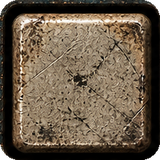
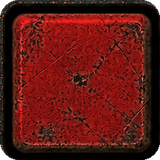
corrige rotacion botones

diff --git a/Source/ui/KnobLookAndFeel.cpp b/Source/ui/KnobLookAndFeel.cpp
@@ -5,38 +5,9 @@
 
 namespace
 {
-juce::Image createTrimmedKnobImage (const char* data, int dataSize)
+juce::Image createKnobImage (const char* data, int dataSize)
 {
-    const auto source = juce::ImageCache::getFromMemory (data, dataSize);
-    if (! source.isValid())
-        return {};
-
-    int left = source.getWidth();
-    int top = source.getHeight();
-    int right = -1;
-    int bottom = -1;
-
-    for (int y = 0; y < source.getHeight(); ++y)
-        for (int x = 0; x < source.getWidth(); ++x)
-            if (source.getPixelAt (x, y).getAlpha() > 1)
-            {
-                left = juce::jmin (left, x);
-                top = juce::jmin (top, y);
-                right = juce::jmax (right, x);
-                bottom = juce::jmax (bottom, y);
-            }
-
-    if (right < left || bottom < top)
-        return source;
-
-    const int side = juce::jmax (right - left + 1, bottom - top + 1);
-    const int cropX = juce::jlimit (0, source.getWidth() - side,
-                                    juce::roundToInt (((float) left + (float) right + 1.0f) * 0.5f
-                                                      - (float) side * 0.5f));
-    const int cropY = juce::jlimit (0, source.getHeight() - side,
-                                    juce::roundToInt (((float) top + (float) bottom + 1.0f) * 0.5f
-                                                      - (float) side * 0.5f));
-    return source.getClippedImage ({ cropX, cropY, side, side });
+    return juce::ImageCache::getFromMemory (data, dataSize);
 }
 } // namespace
 
@@ -49,34 +20,65 @@ void KnobLookAndFeel::drawRotarySlider (juce::Graphics& g, int x, int y, int wid
     const float relativeWidth = slider.getParentWidth() > 0
         ? (float) width / (float) slider.getParentWidth() : 0.0f;
 
-    const juce::Image* image = nullptr;
+    const juce::Image* base = nullptr;
+    const juce::Image* cap = nullptr;
+    juce::Point<float> capCentreInBase;
     if (relativeWidth >= (layout::largeKnobSize + layout::mediumKnobSize) * 0.5f / layout::designWidth)
     {
-        static const auto trimmedLarge = createTrimmedKnobImage (BinaryData::knob_large_png,
-                                                                  BinaryData::knob_large_pngSize);
-        image = &trimmedLarge;
+        static const auto largeBase = createKnobImage (BinaryData::knob_large_base_png,
+                                                        BinaryData::knob_large_base_pngSize);
+        static const auto largeCap = createKnobImage (BinaryData::knob_large_cap_png,
+                                                       BinaryData::knob_large_cap_pngSize);
+        base = &largeBase;
+        cap = &largeCap;
+        capCentreInBase = { 487.0f, 473.0f };
     }
     else if (relativeWidth >= (layout::mediumKnobSize + layout::smallKnobSize) * 0.5f / layout::designWidth)
     {
-        static const auto trimmedMedium = createTrimmedKnobImage (BinaryData::knob_medium_png,
-                                                                   BinaryData::knob_medium_pngSize);
-        image = &trimmedMedium;
+        static const auto mediumBase = createKnobImage (BinaryData::knob_medium_base_png,
+                                                         BinaryData::knob_medium_base_pngSize);
+        static const auto mediumCap = createKnobImage (BinaryData::knob_medium_cap_png,
+                                                        BinaryData::knob_medium_cap_pngSize);
+        base = &mediumBase;
+        cap = &mediumCap;
+        capCentreInBase = { 432.0f, 424.0f };
     }
     else
     {
-        static const auto trimmedSmall = createTrimmedKnobImage (BinaryData::knob_small_png,
-                                                                  BinaryData::knob_small_pngSize);
-        image = &trimmedSmall;
+        static const auto smallBase = createKnobImage (BinaryData::knob_small_base_png,
+                                                        BinaryData::knob_small_base_pngSize);
+        static const auto smallCap = createKnobImage (BinaryData::knob_small_cap_png,
+                                                       BinaryData::knob_small_cap_pngSize);
+        base = &smallBase;
+        cap = &smallCap;
+        capCentreInBase = { 293.0f, 288.0f };
     }
 
-    if (image == nullptr || ! image->isValid())
+    if (! base->isValid() || ! cap->isValid())
         return;
 
     const auto bounds = juce::Rectangle<float> ((float) x, (float) y, (float) width, (float) height);
+    const float diameter = juce::jmin (bounds.getWidth(), bounds.getHeight());
+    const float scale = diameter / (float) base->getWidth();
+    const float baseWidth = (float) base->getWidth() * scale;
+    const float baseHeight = (float) base->getHeight() * scale;
+    const float baseX = bounds.getCentreX() - baseWidth * 0.5f;
+    const float baseY = bounds.getCentreY() - baseHeight * 0.5f;
     const float angle = rotaryStartAngle + sliderPosProportional * (rotaryEndAngle - rotaryStartAngle);
+
+    g.setImageResamplingQuality (juce::Graphics::highResamplingQuality);
+    g.drawImage (*base, juce::Rectangle<float> (baseX, baseY, baseWidth, baseHeight),
+                 juce::RectanglePlacement::stretchToFit);
+
+    const float capWidth = (float) cap->getWidth() * scale;
+    const float capHeight = (float) cap->getHeight() * scale;
+    const juce::Point<float> capCentre (baseX + capCentreInBase.x * scale,
+                                        baseY + capCentreInBase.y * scale);
     juce::Graphics::ScopedSaveState state (g);
-    g.addTransform (juce::AffineTransform::rotation (angle,
-                                                     bounds.getCentreX(), bounds.getCentreY()));
-    g.drawImageWithin (*image, x, y, width, height, juce::RectanglePlacement::centred);
+    g.addTransform (juce::AffineTransform::rotation (angle, capCentre.x, capCentre.y));
+    g.drawImage (*cap, juce::Rectangle<float> (capCentre.x - capWidth * 0.5f,
+                                                capCentre.y - capHeight * 0.5f,
+                                                capWidth, capHeight),
+                 juce::RectanglePlacement::stretchToFit);
 }
 } // namespace junky
